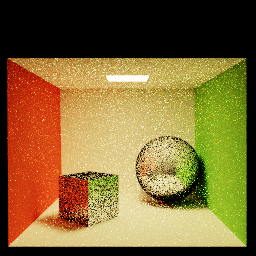
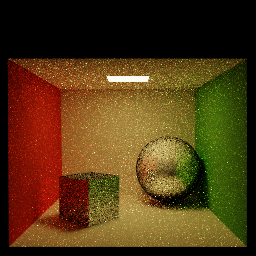
refraction finished

diff --git a/pathtracer.cpp b/pathtracer.cpp
@@ -83,8 +83,10 @@ Vector3f PathTracer::tracePixel(int x, int y, const Scene& scene, const Matrix4f
        // view port space
 
        Vector2f myrand = (Vector2f::Random () + Vector2f::Ones())/2;
-       Vector3f d(((2.f * (x+ myrand.x()) / m_width) - 1),
-                       (1 - (2.f * (y+ myrand.y()) / m_height)), -1);
+       float offsetX = 0.5 - myrand.x();
+       float offsetY = 0.5 - myrand.y();
+       Vector3f d(((2.f * (x+ offsetX) / m_width) - 1),
+                       (1 - (2.f * (y+ offsetY) / m_height)), -1);
 
        d.normalize();
 
@@ -99,7 +101,7 @@ Vector3f PathTracer::tracePixel(int x, int y, const Scene& scene, const Matrix4f
 
 }
 
-Eigen::Vector3f PathTracer::getBRDF(const Vector3f& rayDir,  Vector3f& oldRayDir,
+Eigen::Vector3f PathTracer::getBRDF(const Vector3f& wi,  Vector3f& wo,
                                     const Vector3f& normal,const tinyobj::material_t& mat)
 {
 
@@ -109,13 +111,22 @@ Eigen::Vector3f PathTracer::getBRDF(const Vector3f& rayDir,  Vector3f& oldRayDir
     const tinyobj::real_t *s = mat.specular;//specular color as array of floats
     Vector3f specularV(s[0],s[1],s[2]);
 
-    const tinyobj::real_t shininnes = 100;//mat.shininess;
+    const tinyobj::real_t shininnes = mat.shininess;
 
-   if(specularV !=  Vector3f::Zero())
+   if(specularV.norm() > 0.0)
    {
-       Vector3f reflectV = rayDir - 2.0 * (rayDir.dot(normal)) * normal;
-       float reflectShininnes = pow(reflectV.dot(oldRayDir), shininnes);
-       return specularV * ((shininnes + 2) / (2 * M_PI)) * reflectShininnes;
+       Vector3f reflectV(0.0,0.0,0.0);
+       if(wi.dot(normal) < 0)
+       {
+         reflectV = wi - 2.0 * (wi.dot(normal)) * normal;
+       }else
+       {
+         reflectV = ((2 * wi.dot(normal) * normal) - wi);
+       }
+       reflectV = reflectV.normalized();
+       float n = ((shininnes + 2) / (2 * M_PI));
+       float reflectShininnes = pow(reflectV.dot(wo), shininnes);
+       return specularV * n * reflectShininnes;
    }
    else
    {
@@ -157,7 +168,9 @@ Vector3f PathTracer::traceRay(const Ray& r, const Scene& scene, int bounce )
 
         Vector3f px = interesction.hit;
 
-        Vector3f currentDir = ray.d;
+        // I dont trust r.d anymore !!
+        Vector3f currentDir(ray.d);
+
         const Vector3f hitNormal =  t->getNormal(px).normalized();
 
         Vector2f myrand = (Vector2f::Random () + Vector2f::Ones())/2.0;
@@ -171,18 +184,37 @@ Vector3f PathTracer::traceRay(const Ray& r, const Scene& scene, int bounce )
 
         Vector2f random = (Vector2f::Random () + Vector2f::Ones())/2.0;
 
-        float pdf_rr =0.75;
+        float pdf_rr =0.9;
         if(random.x() < pdf_rr)
         {
-            /*if (isMirror)
+            if (isMirror)
             {
-              Vector3f reflectVector = currentDir - 2.0 * (currentDir.dot(hitNormal)) * hitNormal;
-              Vector3f lr = traceRay(Ray(px, reflectVector), scene, 0);
+             Vector3f lr = doMirror(currentDir,hitNormal,px,scene);
               Vector3f incoming = lr / pdf_rr;
               L += incoming;
-            }*/
-            //else
-           // {
+            }
+            else if(refrct)
+            {
+
+                Vector3f refractVector = doRefract(currentDir, hitNormal, mat.ior);
+                float fresnelIndex = doFresnel(currentDir, hitNormal, mat.ior);
+                Vector2f myrand = (Vector2f::Random () + Vector2f::Ones())/2.0;
+                if (myrand.x() > fresnelIndex)
+                {
+                  Vector3f lr = traceRay(Ray(px, refractVector), scene, 0);
+                  lr /= pdf_rr;
+                  L += lr;
+                }
+                else
+                {
+                   Vector3f reflectVector = r.d - 2.0 * (r.d.dot(hitNormal)) * hitNormal;
+                   Vector3f lr = traceRay(Ray(px, reflectVector), scene, 0);
+                   lr /= pdf_rr;
+                   L += lr;
+                }
+            }
+            else
+            {
                float costheta = newDir.dot(hitNormal);
                float pdf = 1.0 / (2.0 * M_PI);
 
@@ -191,7 +223,7 @@ Vector3f PathTracer::traceRay(const Ray& r, const Scene& scene, int bounce )
                Vector3f color = (lr.array()   * brdf.array());
                Vector3f incoming  = color    * costheta/ (pdf * pdf_rr) ;
                L +=  incoming  ;
-           // }
+            }
 
         }
 
@@ -207,6 +239,11 @@ Vector3f PathTracer::traceRay(const Ray& r, const Scene& scene, int bounce )
     }
 }
 
+Vector3f PathTracer::doMirror(const Vector3f& w, const Vector3f& n , const Vector3f& hitPos,const Scene& scene)
+{
+    Vector3f reflectVector = w - 2.0 * (w.dot(n)) * n;
+    return traceRay(Ray(hitPos, reflectVector), scene, 0);
+}
 
 void PathTracer::createNormalPlane(const Vector3f & normal, Vector3f & v2,Vector3f & v3)
 {
@@ -302,7 +339,7 @@ Vector3f PathTracer::directLight(const Scene& scene,
                                          + (sqrt(r1) * (1 - r2)) * v2
                                          + (r2 * sqrt(r1)) * v3;
 
-               Vector3f normalV = t->getNormal(lightPosition).normalized();
+
 
                Vector3f lightDir = (hitPos -lightPosition).normalized() ;
                Vector3f lightDirPrime = (lightPosition - hitPos).normalized();
@@ -313,6 +350,8 @@ Vector3f PathTracer::directLight(const Scene& scene,
                        && (interesction.hit - lightPosition).norm() < 0.001)
                {
 
+                 Vector3f ligthHitPos =interesction.hit;
+                 Vector3f normalV = t->getNormal(ligthHitPos).normalized();
                  float dis = (hitPos -lightPosition).norm();
 
                  float costheta = std::fmax(0.0,lightDirPrime.dot(hitNormal));
@@ -336,19 +375,60 @@ Vector3f PathTracer::directLight(const Scene& scene,
 
 }
 
+Vector3f PathTracer::doRefract(const Vector3f& w, const Vector3f& hitNormal, float indexRfl)
+{
+     Vector3f normal( hitNormal);
+     float cosThetai = w.dot(hitNormal);
+
+     float index =0.0;
+     if (cosThetai < 0)
+     {
+          index = 1 / indexRfl;
+          cosThetai *= -1;
+     }
+     else
+     {
+        index = indexRfl;
+        normal *= -1;
+     }
+     float cosThetat = sqrtf(1.0 - index * index * (1.0 - cosThetai * cosThetai));
+     Vector3f refractVector = index * w + (index * cosThetai - cosThetat) * normal;
+     return refractVector.normalized();
+
+}
+
+float PathTracer::doFresnel(const Vector3f& w, const Vector3f& hitNormal, float indexRfl)
+{
+    float ni = 1;
+    float nt = indexRfl;
+    float cosThetai = w.dot(hitNormal);
+    if (cosThetai < 0)
+    {
+         cosThetai = -cosThetai;
+    }
+    else
+    {
+         ni = indexRfl;
+         nt = 1;
+    }
+
+    float vI = powf((ni - nt) / (ni + nt), 2);
+    float VO = vI + (1.0 - VO) * powf(1.0 - cosThetai, 5);
+    return VO;
+}
+
 void PathTracer::toneMap(QRgb *imageData, std::vector<Vector3f> &intensityValues) {
     for(int y = 0; y < m_height; ++y) {
         for(int x = 0; x < m_width; ++x) {
             int offset = x + (y * m_width);
             Vector3f currentIntensity = intensityValues[offset];
+            /*qRgb tonedColr(intensityValues[offset].x() / (1.0 + intensityValues[offset].x()) *255.0,
+                           intensityValues[offset].y() / (1.0 + intensityValues[offset].y())*255.0,
+                           intensityValues[offset].z() / (1.0 + intensityValues[offset].z())*255.0)*/
 
-            float r = intensityValues[offset].x() / (1.0 + intensityValues[offset].x());
-            float g = intensityValues[offset].y() / (1.0 + intensityValues[offset].y());
-            float b = intensityValues[offset].z() / (1.0 + intensityValues[offset].z());
-
-            imageData[offset] = qRgb(r *255.0,
-                                                 g*255.0,
-                                                 b*255.0);
+            imageData[offset] = qRgb(intensityValues[offset].x() / (1.0 + intensityValues[offset].x()) *255.0,
+                                     intensityValues[offset].y() / (1.0 + intensityValues[offset].y())*255.0,
+                                     intensityValues[offset].z() / (1.0 + intensityValues[offset].z())*255.0);
         }
     }
 

diff --git a/pathtracer.h b/pathtracer.h
@@ -31,6 +31,11 @@ private:
     Eigen::Vector3f getBRDF(const Eigen::Vector3f& nRayDir,Eigen::Vector3f& oldRayDir, const Eigen::Vector3f& normal,
                             const tinyobj::material_t& mat);
 
+    Eigen::Vector3f doRefract(const Eigen::Vector3f& w, const Eigen::Vector3f& n, float indexRfl);
+    float doFresnel(const Eigen::Vector3f& w, const Eigen::Vector3f& n, float indexRfl);
+
+    Eigen::Vector3f doMirror(const Eigen::Vector3f& w, const Eigen::Vector3f& n ,const Eigen::Vector3f& hitPos,const Scene& scene);
+
      float emmisionMultiplier;
 };
 
